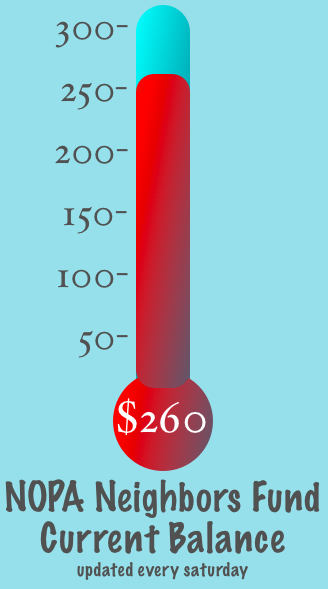
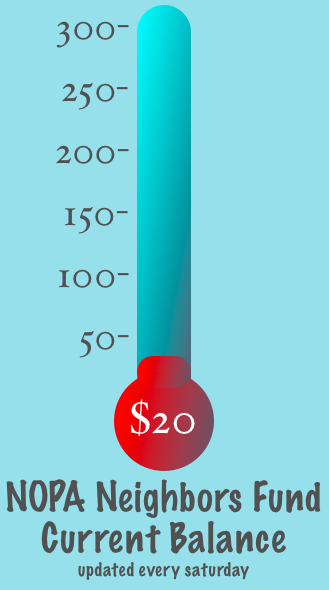
More updates.

diff --git a/htdocs/index.html b/htdocs/index.html
@@ -3,37 +3,63 @@
 <html xmlns="http://www.w3.org/1999/xhtml" xml:lang="en" lang="en">
 <head>
     <title>NOPA Neighbors</title>
-    <link rel="stylesheet" type="text/css" href="styles.css" />
+    <link rel="stylesheet" type="text/css" href="styles.css"></link>
+    <script type="text/javascript" src="http://code.jquery.com/jquery-1.4.3.js"></script>
+    <script type="text/javascript" src="http://github.com/malsup/corner/raw/master/jquery.corner.js?v2.09"></script>
+    <script type="text/javascript" src="script/google-analytics.js"></script>
+
     <script type="text/javascript">
+	$(document).ready(function(){
+	    $("div#popover").fadeIn("slow");
 
-        var _gaq = _gaq || [];
-        _gaq.push(['_setAccount', 'UA-10783012-2']);
-        _gaq.push(['_trackPageview']);
+	    $("a#out").click(function(event){
+		$("div#popover").fadeOut("fast");
+	    });
+	});
 
-        (function() {
-            var ga = document.createElement('script'); ga.type = 'text/javascript'; ga.async = true;
-            ga.src = ('https:' == document.location.protocol ? 'https://ssl' : 'http://www') + '.google-analytics.com/ga.js';
-            var s = document.getElementsByTagName('script')[0]; s.parentNode.insertBefore(ga, s);
-        })();
-
+	$("div#popover").corner("round 14px");
     </script>
+
 </head>
 <body>
     <div id="main">
         <div id="header"></div>
         <div id="content">
+
+	    <div id="popover">
+		<script>
+
+		</script>
+
+		<div id="popover-content">
+		    <div style="text-align:center"><h1>We Did It!</h1></div>
+		    <p>
+			Thanks to your generous donations, the NOPA Neighbors Fund has
+			reached the $300 goal.  The first clean-up is planned for
+			Saturday, November 6.  Please click <a href="cleanup.html">
+			here</a> for more details.
+		    </p>
+
+		    <p>
+			In the meantime, the balance of the Fund has been reset.
+			You can still make a donation, and it will be applied toward
+			the next clean-up.  We appreciate your contribution!
+		    </p>
+
+		    <div style="text-align:right; font-size:10px; color:#D6D6D6"><a id="out">CLOSE</a></div>
+		</div>
+            </div>
+
             <div id="banner"></div>
-            <div id="region1">
-                <h1>
-                    Howdy Neighbor!
-                </h1>
+	    <div id="region1">
+                <h1>Howdy Neighbor!</h1>
                 <p>
                     My wife and I have lived at 38 Cole Street since 2007.
                     We love looking at the beautiful buildings and meeting
-                    all the wonderful people who live in this part of the NOrth 
+                    all the wonderful people who live in this part of the NOrth
                     PAnhandle neighborhood. But sometimes, the wind and rain and
-                    a few careless citizens make a mess.  It saddens us when we 
-                    see the neighborhood littered with trash and debris.  But 
+                    a few careless citizens make a mess.  It saddens us when we
+                    see the neighborhood littered with trash and debris.  But
                     with your help, we’d like do something about it.
                 </p>
             </div>
@@ -41,9 +67,7 @@
                 <img src="images/family.png" alt="Our Family"/>
             </div>
             <div id="region3">
-                <h1>
-                    The NOPA Neighbors Fund
-                </h1>
+                <h1>The NOPA Neighbors Fund</h1>
                 <p>
                     Using the <a href="#donate">button below</a>, you can
                     contribute to the NOPA Neighbors Fund.  Each time the Fund
@@ -58,9 +82,7 @@
                 <img src="images/map.png" alt="The NOPA Neighbors Area"/>
             </div>
             <div id="region5">
-                <h1>
-                    Think Globally, Act Locally
-                </h1>
+                <h1>Think Globally, Act Locally</h1>
                 <p>
                     As residents and homeowners, I bet most of us wouldn’t mind
                     paying a little extra in city taxes or fees if we knew the
@@ -78,9 +100,7 @@
                 </p>
             </div>
             <div id="region6">
-                <h1>
-                    Love Thy Neighbor
-                </h1>
+                <h1>Love Thy Neighbor</h1>
                 <p>
                     This is not an official charity, organization, or institution.
                     I’m just a friendly neighbor trying to make our corner of

diff --git a/htdocs/styles.css b/htdocs/styles.css
@@ -30,7 +30,6 @@ html body {
     position:relative;
     height:1400px;
     width:700px;
-    z-index:5;
 }
 
 #banner {
@@ -97,6 +96,50 @@ html body {
     position:absolute;
     top:1340px;
     left:50px;
+}
+
+#region9 {
+    position:absolute;
+    top:355px;
+    left:90px;
+    width:520px;
+}
+
+#popover {
+    background-image:url(images/popover-background.png);
+    background-repeat:repeat;
+    position:absolute;
+    color:#FFFFFF;
+    display:none;
+    top:150px;
+    left:85px;
+    width:510px;
+    height:285px;
+    z-index:1;
+}
+
+#popover-content {
+    padding:20px;
+}
+
+#popover h1 {
+        color:#43C6DB;
+        font-size:28px;
+        font-family:'HoeflerText-Regular','Hoefler Text','Times New Roman',serif;
+        font-weight:400;
+        line-height:32px;
+        padding:0;
+        margin-bottom:20px;
+}
+
+#popover p {
+        color:#FFFFFF;
+        font-size:18px;
+        font-family:'HoeflerText-Regular','Hoefler Text','Times New Roman',serif;
+        line-height:21px;
+        padding:0;
+        margin-top:0px;
+        margin-bottom:20px;
 }
 
 h1 {
